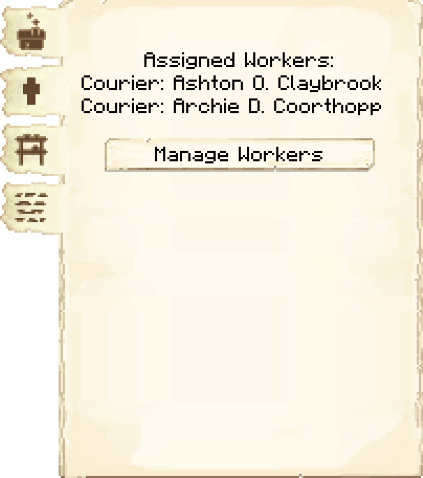
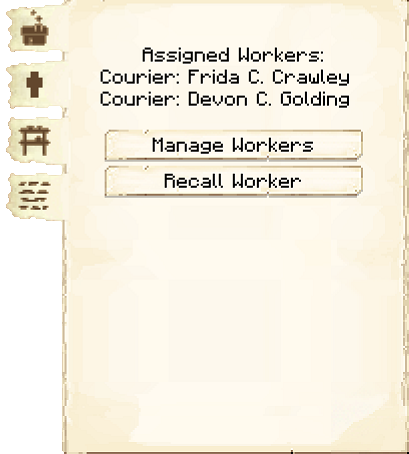
Warehouse Update (#811)

diff --git a/pages/src/source/buildings/warehouse.md b/pages/src/source/buildings/warehouse.md
@@ -24,62 +24,21 @@ The level of the Warehouse will determine how many Couriers will be able to use 
 
 ## Warehouse GUI
 
-When accessing the Warehouse's hut block by right-clicking on it, you will see a GUI with different options:  
-
 <div class="row">
-  <div class="col-sm-12 col-md">
-    <img src="../../assets/images/gui/warehousegui1.png" class="img-fluid mx-auto" alt="Warehouse GUI">
-  </div>
-  <div class="col-sm-12 col-md">
-    <br>
-    <ul>
-      <li><strong>Build Options: </strong>Lets you create a build, upgrade, reposition, or repair build order for the Warehouse. To learn more about the building system, visit the <a href="../../source/workers/builder">Builder</a> page.</li><br>
-      <li><strong>Inventory: </strong>This is an inventory space where you can store anything you like. The Couriers don't deposit things here (they use the <a href="../../source/items/rack">racks</a> in the Warehouse instead).</li>
-    </ul>
-  </div>
-</div>  
+  <div class="col">
+    {% include contentblock/main-gui.html data=site.data.gui.warehouse header="When accessing the Warehouse hut block by right-clicking on it, you will see a GUI with different options. You start on the main tab:" image="../../assets/images/gui/warehousegui1.png" %}
 
-This is page two of the Warehouse GUI.
+    {% include contentblock/basic.html header="The second tab of the GUI is <strong>Workers</strong>." content="<ul>
+      <li><strong>Assigned Workers: </strong>A list of the <a href='../workers/courier'>Couriers</a> assigned to this Warehouse.</li>
+      <li><strong>Manage Workers: </strong>You can choose which Couriers to hire at the Warehouse. <b>Note:</b> this only works if you have turned the worker hiring mode in the <a href='../../source/buildings/townhall'> Town Hall</a> block to manual, otherwise your citizens will be hired automatically.</li>
+      <li><strong>Recall Workers: </strong>Recalls the Couriers at this Warehouse to the hut block. You might use it if they are stuck somewhere, you want to see what they have, or want to give them something directly.</li>
+    </ul>" image="../../assets/images/gui/warehousegui2.png" %}
 
-<div class="row">
-  <div class="col-sm-12 col-md">
-    <img src="../../assets/images/gui/warehousegui2.png" class="img-fluid mx-auto" alt="Warehouse GUI 2">
-  </div>
-  <div class="col-sm-12 col-md">
-	<br>
-    <ul>
-      <li><strong>Assigned Workers: </strong>A list of the <a href="../workers/courier">couriers</a> assigned to this warehouse.</li><br>
-      <li><strong>Manage Workers: </strong>You can choose which courier to hire at the warehouse.</li>
-    </ul>
+    {% include contentblock/basic.html header="The third tab of the GUI is <strong>Minimum Stock</strong>." content="<strong>Add:</strong> Use this button to tell the Warehouse to request a minimum stock to keep on hand. If a worker requests an item that is set as the minimum stock, the minimum stock will be given to them but the Warehouse will request more if it no longer has enough. Set items will be displayed above the button." image="../../assets/images/gui/warehousegui3.png" %}
+
+    {% include contentblock/basic.html header="The fourth tab of the GUI is <strong>Storage</strong>." content="<ul>
+      <li><strong>Block of Emerald: </strong>You can increase the max amount of stacks in each rack by pressing this button. This can only be done when the Warehouse is at level 5 and you have at least one block of emerald in your inventory. The storage can be increased 3 times.</li><br>
+      <li><strong>Sort: </strong>The sort option is available when the Warehouse reaches level 3. It sorts and stacks all the items in the racks.</li>
+    </ul>" image="../../assets/images/gui/warehousegui4.png" %}
   </div>
 </div>
-    
-This is page three of the Warehouse GUI.
-
-<div class="row">
-  <div class="col-sm-12 col-md">
-    <img src="../../assets/images/gui/warehousegui3.png" class="img-fluid mx-auto" alt="Warehouse GUI 3">
-  </div>
-  <div class="col-sm-12 col-md">
-	<br>
-    <ul>
-      <li><strong> Minimum Stock: </strong> Use this button to tell the Warehouse to request a minimum stock to keep on hand. If a worker requests an item that is set as the minimum stock, the minimum stock will be given to them but the Warehouse will request more if it no longer has enough. Set items will be displayed above the button.</li>
-    </ul>
-    </div>
-</div>	
-
-This is page four of the Warehouse GUI.
-
-<div class="row">
-  <div class="col-sm-12 col-md">
-    <img src="../../assets/images/gui/warehousegui4.png" class="img-fluid mx-auto" alt="Warehouse GUI 4">
-  </div>
-  <div class="col-sm-12 col-md">
-	<br>
-    <ul>
-      <li><strong>Block of Emerald: </strong>You can increase the max amount of stacks in each rack by pressing this button. This can only be done when the Warehouse is at level 5 and you have at least one block of emerald in your inventory. The storage can be increased 5 times.</li><br>
-      <li><strong>Sort: </strong>The sort option is available when the Warehouse reaches level 3. It sorts and stacks all the items in the racks.</li>
-    </ul>
-    </div>
-</div>	
-

diff --git a/pages/src/source/buildings/mysticalsite.md b/pages/src/source/buildings/mysticalsite.md
@@ -19,20 +19,8 @@ The [Undertaker](../../source/workers/undertaker) will visit the Mystical Site w
 
 ## Mystical Site GUI
 
-When accessing the Mystical Site's hut block by right-clicking on it, you will see a GUI with different options:
-
-<br>
 <div class="row">
-  <div class="col-sm-12 col-md">
-    <img src="../../assets/images/gui/mysticalsitegui.png" class="img-fluid mx-auto" alt="Mystical Site GUI">
+  <div class="col">
+    {% include contentblock/main-gui.html data=site.data.gui.mystical header="When accessing the Mystical Site's hut block by right-clicking on it, you will see a GUI with different options." image="../../assets/images/gui/mysticalsitegui.png" %}
   </div>
-  <div class="col-sm-12 col-md"><br><br>
-      <ul>
-      <li><strong>Mystical Site Level:</strong> This tells you the type of hut and the build level of the building you have selected.</li>
-      <li><strong>Build Options:</strong> Lets you create a build, upgrade, deconstruct, or repair build order for the Mystical Site. To learn more about the building system, please visit the <a href="../../source/workers/builder">Builder</a> page.</li>
-      <li><strong>Inventory:</strong> Here you can access the Mystical Site's storage, where you can store anything you like. No citizen uses it.</li>
-      <li><strong>Chest icon:</strong> Click this button to see all the items in the hut's storage (including the hut block's inventory and any racks/chests that came with the hut). Clicking the ? button next to an item's count will highlight the storage container it's in.</li>
-    </ul>
-  </div>
-</div>  
-  <br>
+</div>
